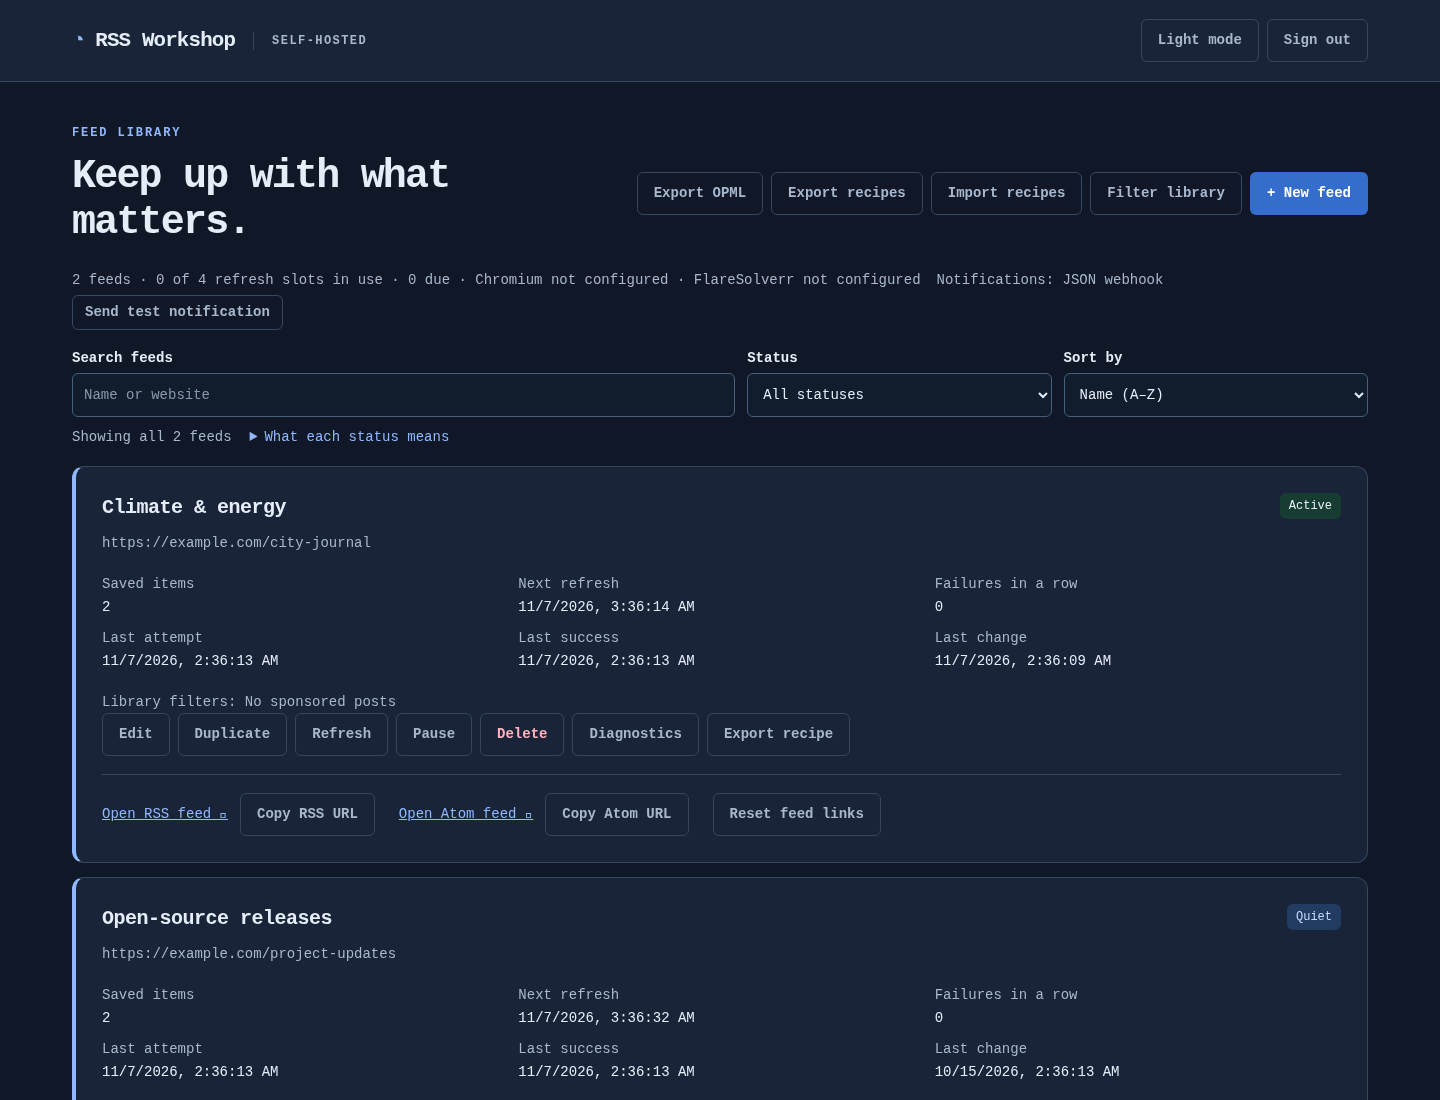
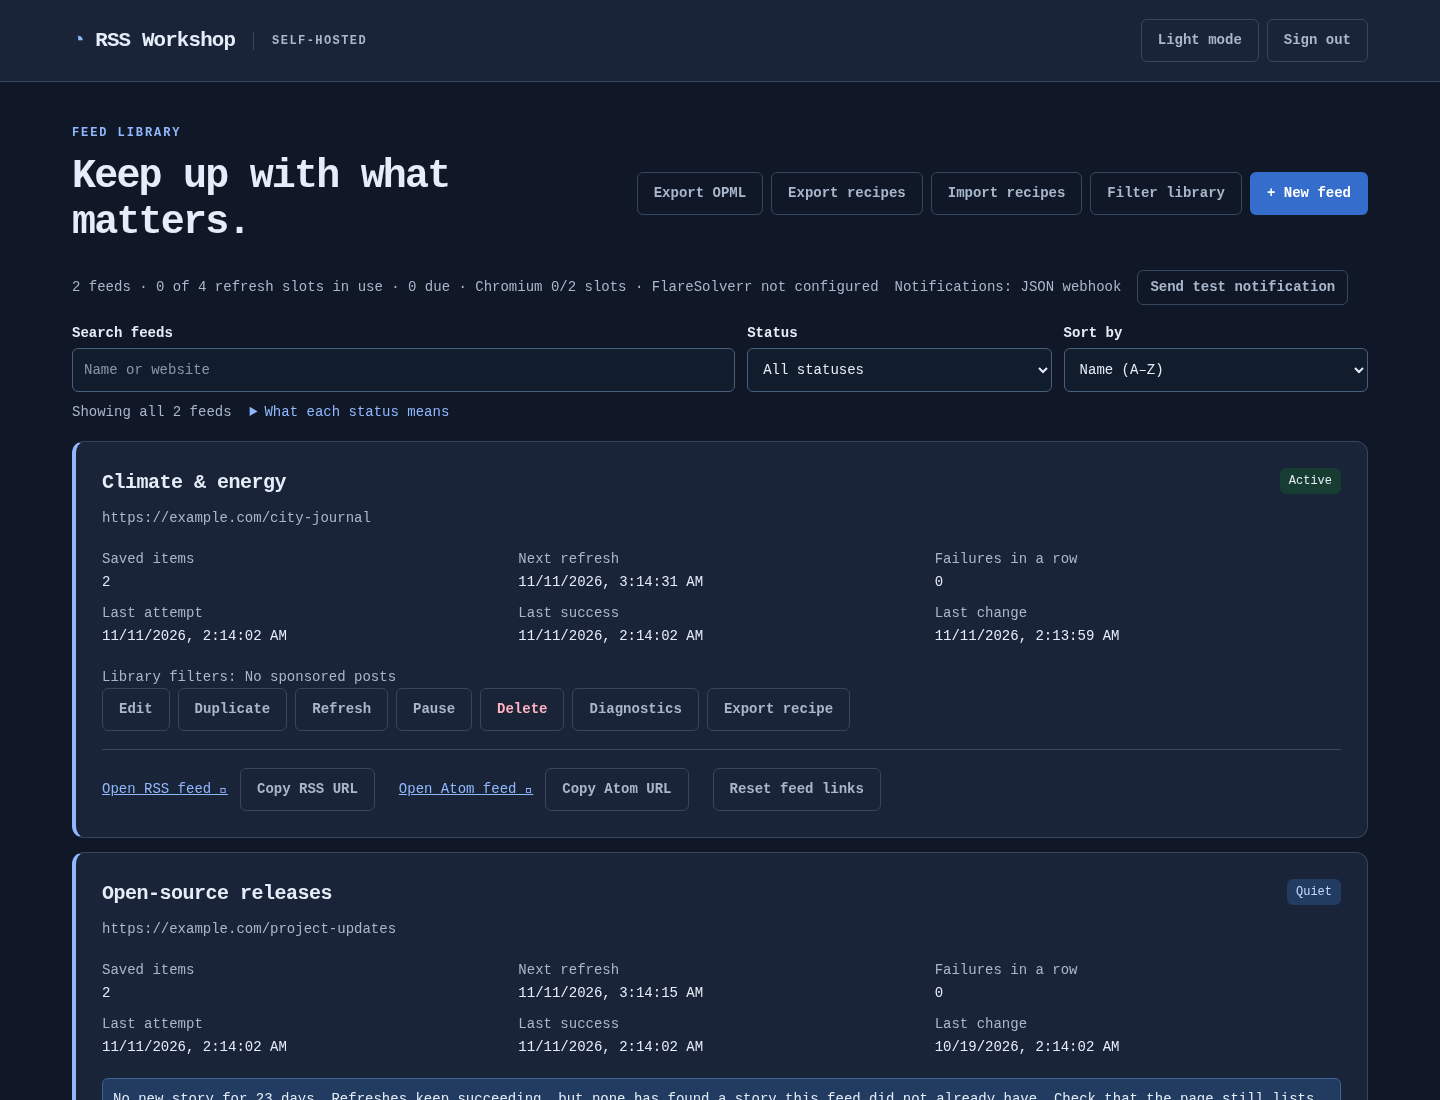
Recapture the screenshots the editor hints changed
The editor's history pruning hint and the article body field's hint
changed after the documentation images were taken, so filters.png and
full-content.png showed text the app no longer has.

The capture also set a CSS article selector in a recipe it had just
converted to XPath, which is the mistake the new hint under that field
warns about, so the image would have shown the two side by side. It
now enters the selector as XPath.

The dashboard image is the landing image of the documentation site
and said "Chromium not configured", although the default image runs
Chromium. The harness now gives the app an idle pool of two slots, as
that deployment has. A pool starts Chromium only for a render, and no
capture renders one.

The visual selector and diagnostics images differ only in clock times
and in the dimmed page behind their dialogs, so they are kept.

diff --git a/internal/web/documentation_ui_test.go b/internal/web/documentation_ui_test.go
@@ -11,6 +11,8 @@ import (
 
 	"github.com/chromedp/chromedp"
 	"rss-workshop/internal/auth"
+	"rss-workshop/internal/browser"
+	"rss-workshop/internal/fetch"
 	"rss-workshop/internal/model"
 	"rss-workshop/internal/scheduler"
 	"rss-workshop/internal/store"
@@ -91,7 +93,19 @@ func TestBrowserUIDocumentation(t *testing.T) {
 			}
 		}
 	}
-	app := &App{Store: s, Scheduler: jobs, Auth: a, Version: "0.2 preview"}
+	// The default image runs Chromium, so the status line shows its slots as
+	// that deployment does. A pool starts Chromium only for a render, and no
+	// capture renders one: both feeds and the selector's page are Static HTTP.
+	policy, err := fetch.New(time.Second, "")
+	if err != nil {
+		t.Fatal(err)
+	}
+	pool, err := browser.New(os.Getenv("CHROMIUM_PATH"), 2, 30*time.Second, policy)
+	if err != nil {
+		t.Fatal(err)
+	}
+	defer pool.Close()
+	app := &App{Store: s, Scheduler: jobs, Auth: a, Browsers: pool, Version: "0.2 preview"}
 	// Notifications on, so the dashboard's status line shows the channel and
 	// its test button. They go to a local receiver; no capture presses the
 	// button, and the page never shows the address.
@@ -116,7 +130,7 @@ func TestBrowserUIDocumentation(t *testing.T) {
 	must(chromedp.EmulateViewport(1440, 1100), chromedp.Navigate(server.URL), chromedp.WaitVisible("#login-form"),
 		chromedp.SendKeys("#password", "documentation-fixture-only"), chromedp.Click("#login-form button"), chromedp.WaitVisible(".feed-card"),
 		chromedp.Evaluate(`if(document.documentElement.dataset.theme!=='dark')document.querySelector('#theme-toggle').click()`, nil),
-		chromedp.Poll(`document.querySelectorAll('.feed-card .badge')[1]?.textContent==='Quiet'&&document.querySelector('#notifications').textContent==='Notifications: JSON webhook'&&!document.querySelector('#test-notification').hidden`, nil))
+		chromedp.Poll(`document.querySelectorAll('.feed-card .badge')[1]?.textContent==='Quiet'&&document.querySelector('#queue').textContent.includes('Chromium 0/2 slots')&&document.querySelector('#notifications').textContent==='Notifications: JSON webhook'&&!document.querySelector('#test-notification').hidden`, nil))
 	captureTrial(t, tab, "docs-dashboard")
 	must(clickCurrent("Edit on the first card", `document.querySelectorAll('.feed-card')[0].querySelector('button')`),
 		chromedp.Click("#visual-button"), chromedp.WaitVisible("#selector-frame"), chromedp.Poll(`document.querySelector('#selector-matches').dataset.items==='3'`, nil),
@@ -148,13 +162,15 @@ func TestBrowserUIDocumentation(t *testing.T) {
 	}
 
 	// Full article content, the newest editor section, with the preview showing
-	// what a reader would receive.
+	// what a reader would receive. The recipe has been XPath since the visual
+	// selector capture converted it, so the article selector is XPath too: CSS
+	// left there is the mistake the hint under the field warns about.
 	must(chromedp.EmulateViewport(820, 760),
 		chromedp.Evaluate(`document.querySelector('#story-filters').open=false;document.querySelector('#full-content').open=true`, nil),
-		chromedp.SetValue(`[name="full_selector"]`, ".article-body"),
+		chromedp.SetValue(`[name="full_selector"]`, "//div[@class='article-body']"),
 		chromedp.Evaluate(`document.querySelector('[name=full_selector]').dispatchEvent(new Event('input'));`+
 			`document.querySelector('#full-content').scrollIntoView({block:'start'});window.scrollBy(0,-24)`, nil),
-		chromedp.Poll(`document.querySelector('#full-summary').textContent==='On'`, nil),
+		chromedp.Poll(`document.querySelector('#full-summary').textContent==='On'&&document.querySelector('#full-syntax-help').textContent.startsWith('An XPath article selector')`, nil),
 		chromedp.Sleep(300*time.Millisecond))
 	captureTrial(t, tab, "docs-full-content")
 
